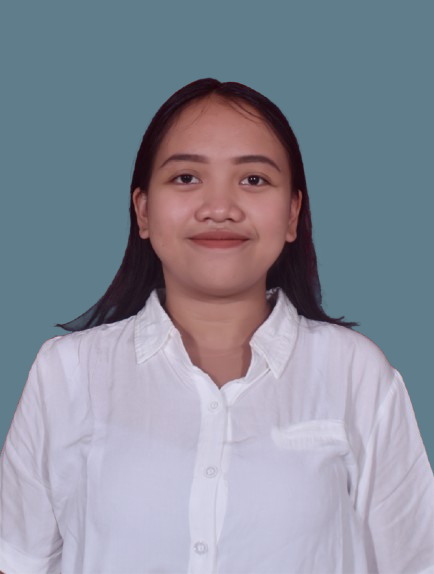
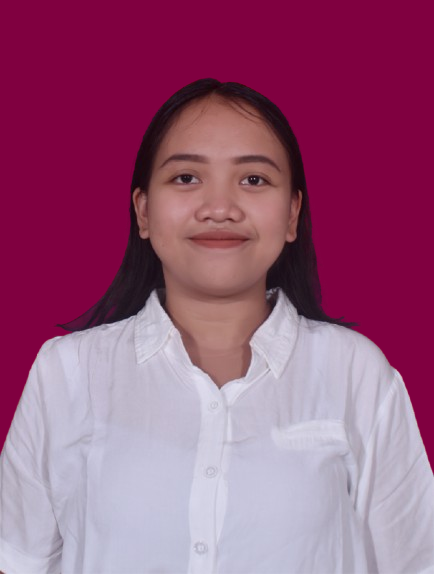
upload foto

diff --git a/my_portofolio/lib/screens/largescreen/desktop_layout_page.dart b/my_portofolio/lib/screens/largescreen/desktop_layout_page.dart
@@ -55,38 +55,7 @@ class _DesktopLayoutState extends State<DesktopLayout> {
                   ],
                 ),
               ),
-              Container(
-                margin: EdgeInsets.symmetric(horizontal: size.width * 0.05),
-                child: Row(
-                  mainAxisAlignment: MainAxisAlignment.spaceBetween,
-                  children: [
-                    CountWidget(
-                      size: size,
-                      text1: "14",
-                      text2: "Years of",
-                      text3: "Experience",
-                    ),
-                    CountWidget(
-                      size: size,
-                      text1: "50+",
-                      text2: "Projects",
-                      text3: "Completed",
-                    ),
-                    CountWidget(
-                      size: size,
-                      text1: "1.5K",
-                      text2: "Happy",
-                      text3: "Customers",
-                    ),
-                    CountWidget(
-                      size: size,
-                      text1: "1M",
-                      text2: "Awesome",
-                      text3: "Reviews",
-                    ),
-                  ],
-                ),
-              ),
+              
               SizedBox(
                 height: size.height * 0.12,
               ),

diff --git a/my_portofolio/lib/screens/widgets/rotating_image_widget.dart b/my_portofolio/lib/screens/widgets/rotating_image_widget.dart
@@ -26,7 +26,7 @@ class _RotatingImageContainerState extends State<RotatingImageContainer> {
         decoration: BoxDecoration(
             image: DecorationImage(
                 fit: BoxFit.cover,
-                image: AssetImage('assets/images/profile_new.jpg')),
+                image: AssetImage('assets/images/foto.png')),
             border: Border.all(color: AppColors.studio, width: 1.2),
             borderRadius: BorderRadius.circular(20)),
       ),
